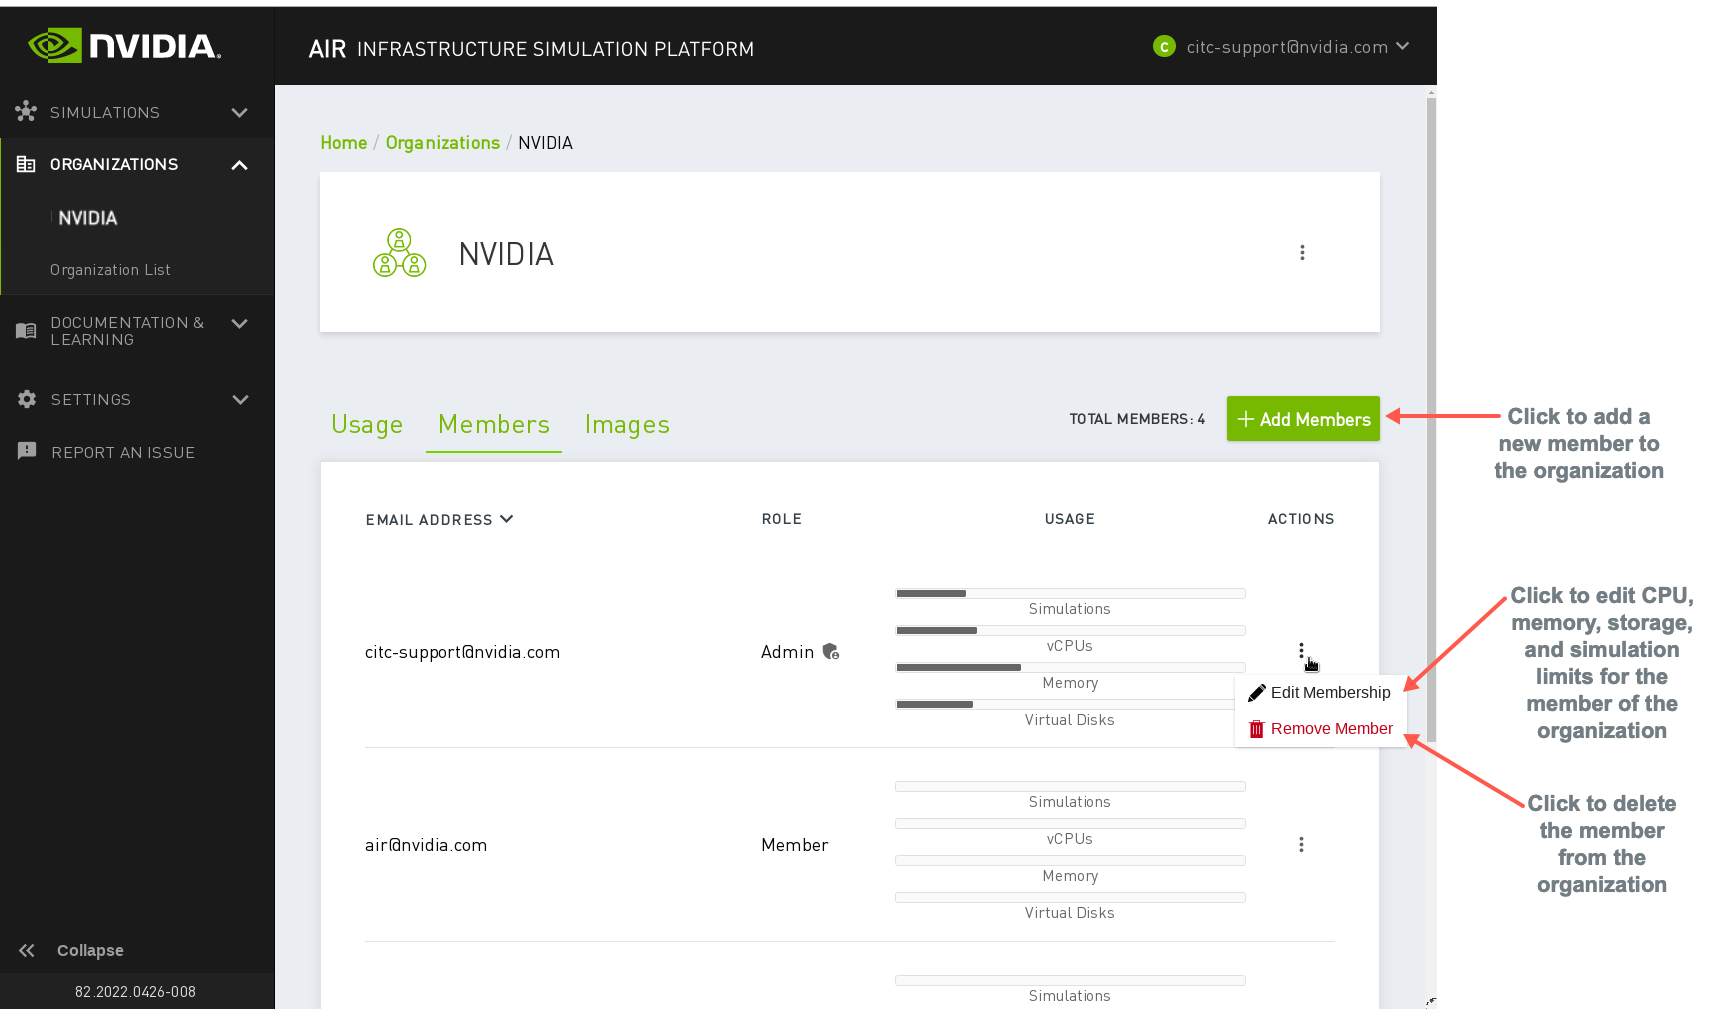
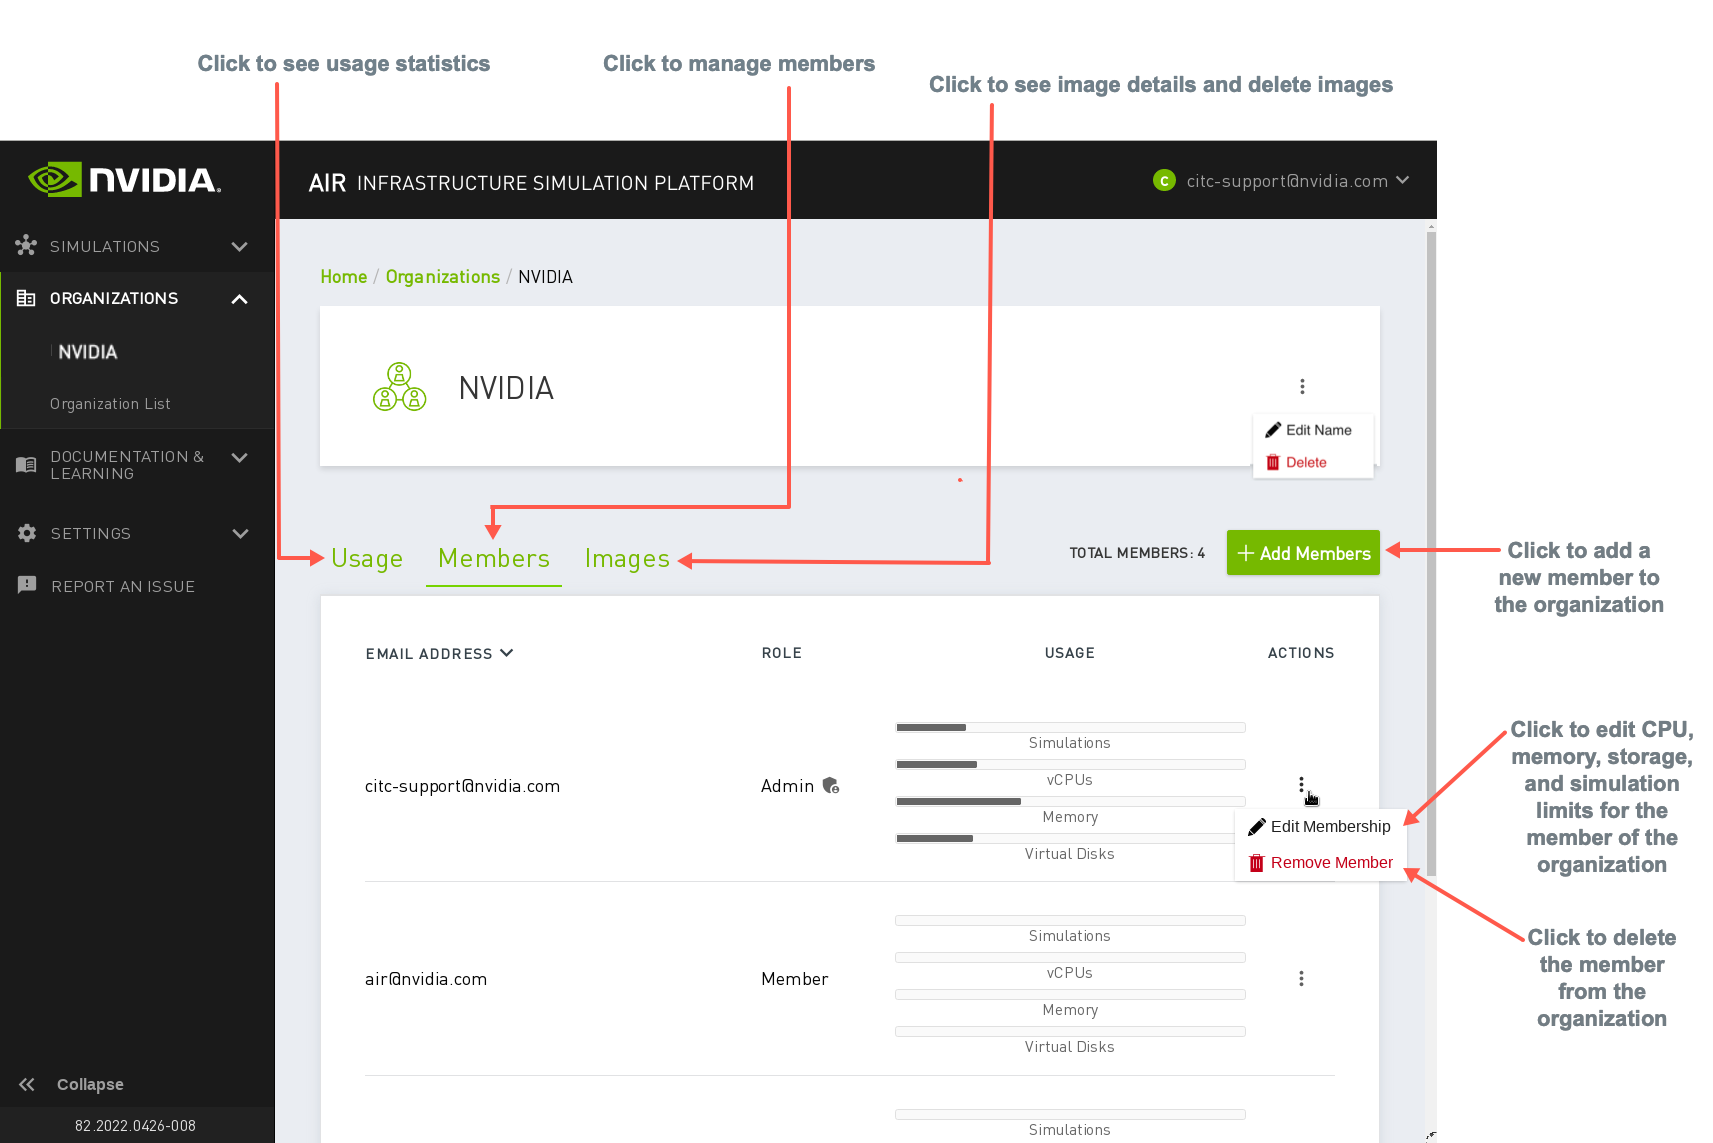
updates

diff --git a/content/guides/nvidia-air/Organizations.md b/content/guides/nvidia-air/Organizations.md
@@ -17,7 +17,7 @@ In the simulation list, the **ORGANIZATION** column shows the organization to wh
 
 <div style="margin-top: 20px;"></div>
 
-To assign a simulation to an organization, click the **Edit** icon to open the **EDIT SIMULATION** dialog. Select the organization from the **ORGANIZATION** dropdown menu.
+To assign a simulation to an organization, click the **Edit** icon to open the **EDIT SIMULATION** dialog. Select the organization from the **ORGANIZATION** dropdown menu, then click **Submit**.
 
 {{<img src="/images/guides/nvidia-air/EditSim.png" width="400px">}}
 
@@ -25,7 +25,7 @@ To assign a simulation to an organization, click the **Edit** icon to open the *
 
 If you are an Organization Administrator, you can create and manage organizations, and view details about each organization, such as the list of current members and their roles. You can also view resource utilization for all simulations in the organization.
 
-To see the list of current organizations, click **Organization List** from the **ORGANIZATIONS** dropdown in the left pane.
+To see the list of current organizations, click **Organization List** from the **ORGANIZATIONS** dropdown in the sidebar.
 
 {{<img src="/images/guides/nvidia-air/OrgList.png" width="800px">}}
 
@@ -53,17 +53,22 @@ Deleting an organization also deletes all the simulations and resources assigned
 
 ### View Details and Manage Members
 
-To view details about each organization and to manage members, click the organization link in the **Organization** column to open the organization details page.
+To view details about each organization and to manage members, click the organization link in the **Organization** column on the Organizations page.
+
+The organization details page provides several options.
 
 {{<img src="/images/guides/nvidia-air/OrgDetails.png">}}
 
 <div style="margin-top: 20px;"></div>
 
 - To view usage statistics for an organization, click the **Usage** link. You can see how many simulations are in the organization and how much CPU, memory, and disk storage the organization uses.
-- To add a new member, click the **Members** link, then click the **Add Member** button. In the Add Members dialog, provide the email address of the member you want to add. If you want the member to be an administrator, click **ORGANIZATION ADMIN** so that the toggle switch turns green.
-- To edit resource limits for a member such as CPU, memory, and storage and the number of simulations allowed, select **Edit Membership** from the actions menu.
-- To remove a member, select **Remove Member** from the actions menu.
+- To manage members click the **Members** link.
+  - To add a new member, click the **Add Member** button. In the Add Members dialog, provide the email address of the member you want to add. If you want the member to be an administrator, click **ORGANIZATION ADMIN** so that the toggle switch turns green.
+  - To edit resource limits for a member such as CPU, memory, and storage and the number of simulations allowed, select **Edit Membership** from the actions menu.
+  - To remove a member, select **Remove Member** from the actions menu.
 
-   {{%notice note%}}
+    {{%notice note%}}
 Removing a member from an organization also moves all their simulations out of the organization.
 {{%/notice%}}
+
+- To view information about a simulation image for an organization, such as the image size, when the image was created and who uploaded the image, click the **Images** link. To delete an image, select **Delete** from the actions menu.

diff --git a/content/guides/nvidia-air/Quick-Start.md b/content/guides/nvidia-air/Quick-Start.md
@@ -29,7 +29,7 @@ After you log in, the NVIDIA Air landing page opens:
 <!--{{<img src="/images/guides/nvidia-air/SideBar.png">}}-->
 - The **Filter organizations** funnel lets you filter your list of simulations based on organization, if you belong to multiple organizations.
 <!--{{<img src="/images/guides/nvidia-air/OrganizationDropdown.png" width="250px">}}-->
-- The **Search simulations** box lets filter your simulations based on a text match, if you have more than one simulation.
+- The **Search simulations** box lets you filter your simulations based on a text match, if you have more than one simulation.
 <!--{{<img src="/images/guides/nvidia-air/SearchSimulation.png">}}-->
 - The **BUILD A SIMULATION** button lets you build a new simulation. This button appears only if you have no simulations. NVIDIA Air provides {{<link title="Pre-built Demos">}} to help you get started.<!--{{<img src="/images/guides/nvidia-air/BuildSim.png" width="300px">}}-->
 
@@ -83,7 +83,7 @@ Use the **SERVICES** pane in the advanced view to create an external connection 
   {{<img src="/images/guides/nvidia-air/ServicesCreate.png" width="400px">}}
 
   1. In the **SERVICE NAME** field, enter the name of the service.
-  2. In the **INTERFACE** dropdown, select the name of the interface in the simulation where the connection terminates. This is typically the eth0interface on the oob-mgmt-server.
+  2. In the **INTERFACE** dropdown, select the name of the interface in the simulation where the connection terminates. This is typically the eth0 interface on the oob-mgmt-server.
   3. In the **SERVICE TYPE** dropdown, select the type of service you want to create. If you select *SSH*, *HTTP* or *HTTPS*, NVIDIA Air creates a hyperlink to the URL automatically in the Services panel. If you select *Other*, you can select any port, but there is no hyperlink. The hyperlink provides a quick way to copy and paste the service.
   4. In the **SERVICE PORT** field, specify the internal port where the service terminates.
   5. Click **SUBMIT** to create the service.
@@ -187,7 +187,7 @@ In the API Tokens window, provide a name and expiration date (optional) for the 
 
 <div style="margin-top: 20px;"></div>
 
-This generates a token that you can use to access the API and SDK.
+NVIDIA Air generates a token that you can use to access the API and SDK.
 
 {{<img src="/images/guides/nvidia-air/UserAPITokenGenerated.png" width="600px">}}
 
